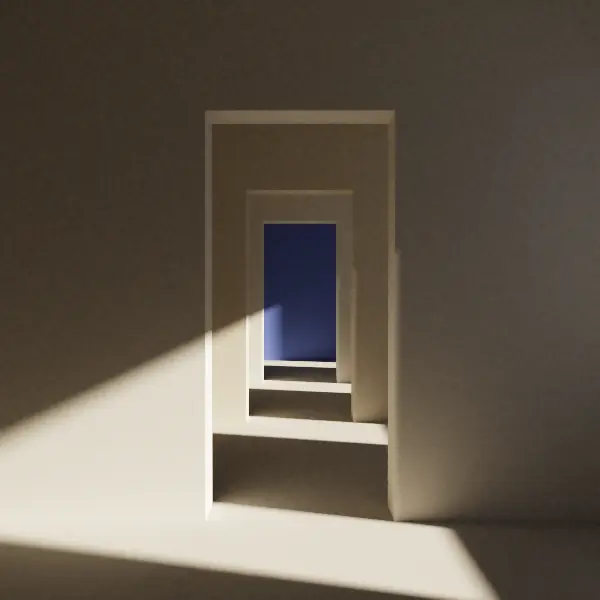
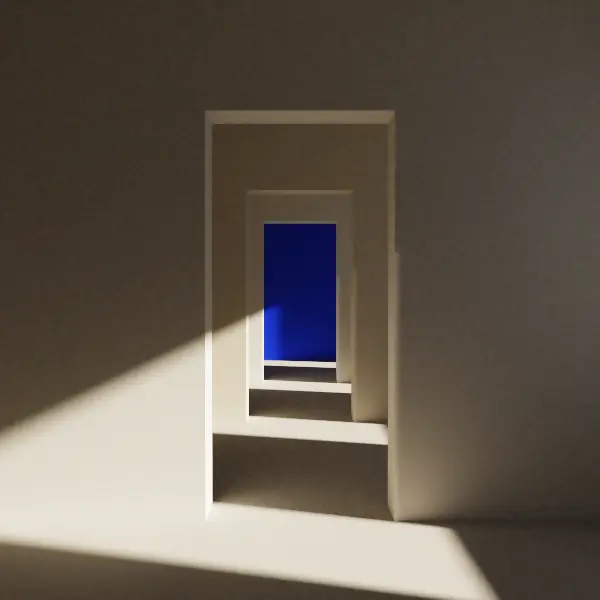
Sticky stacked sections, reference colour palette, square hero images

Changed region(s): [[0.42, 0.45, 0.57, 0.6]]

diff --git a/public/assets/styles.css b/public/assets/styles.css
@@ -6,20 +6,23 @@
 @font-face { font-family: "IBM Plex Sans Thai"; font-style: normal; font-weight: 500; font-display: swap; src: url(../fonts/plex-thai-500-thai.woff2) format("woff2"); unicode-range: U+02D7, U+0303, U+0331, U+0E01-0E5B, U+200C-200D, U+25CC; }
 @font-face { font-family: "IBM Plex Sans Thai"; font-style: normal; font-weight: 500; font-display: swap; src: url(../fonts/plex-thai-500-latin.woff2) format("woff2"); unicode-range: U+0000-00FF, U+0131, U+0152-0153, U+02BB-02BC, U+02C6, U+02DA, U+02DC, U+0304, U+0308, U+0329, U+2000-206F, U+20AC, U+2122, U+2191, U+2193, U+2212, U+2215, U+FEFF, U+FFFD; }
 
-/* Mood: editorial colour blocks (near-black, cream, green, blue), pill controls.
+/* Mood: editorial colour blocks in the reference palette (near-black, cream, deep green-black, electric blue, coral), pill controls.
    Type follows the reference: two weights only (400 body, 500 everything else), large display set tight,
    a medium sub-heading tier, small tracked numerals. Thai keeps gentler tracking and taller line height
    than Latin so stacked vowels and tone marks never touch. */
 :root {
-  --black: #0B0D0C;
-  --black-2: #161917;
+  /* Palette taken from the reference site */
+  --black: #0A0A0A;
+  --black-2: #161616;
+  --deep: #162321;
   --cream: #F2F0EB;
   --paper: #FBFAF7;
   --sand: #E2DDD0;
-  --accent: #0E5A49;
-  --accent-deep: #0A4436;
-  --blue: #1A35C4;
-  --mint: #5FD3A9;
+  --blue: #1432FF;
+  --blue-deep: #0E24C2;
+  --coral: #F94E2A;
+  --accent: var(--blue);
+  --accent-deep: var(--blue-deep);
 
   --ink: #151515;
   --ink-2: #45433F;
@@ -49,10 +52,12 @@
 }
 
 /* Each colour block sets its own text, muted, rule and icon colours */
-.theme-dark   { background: var(--black);  color: var(--cream); --muted: #B3B0A8; --faint: #8F8C84; --rule: rgba(242,240,235,.18); --icon: var(--mint); --focus: var(--cream); }
-.theme-cream  { background: var(--cream);  color: var(--ink);   --muted: var(--ink-2); --faint: var(--ink-3); --rule: #CFCBC1; --icon: var(--accent); --focus: var(--accent); }
-.theme-accent { background: var(--accent); color: var(--cream); --muted: #C6D4CD; --faint: #C6D4CD; --rule: rgba(242,240,235,.28); --icon: var(--cream); --focus: var(--cream); }
-.theme-blue   { background: var(--blue);   color: var(--cream); --muted: #C9CFEE; --faint: #C9CFEE; --rule: rgba(242,240,235,.3); --icon: var(--cream); --focus: var(--cream); }
+.theme-dark   { background: var(--black);   color: var(--cream); --muted: #B1AFA9; --faint: #8F8D87; --rule: rgba(242,240,235,.16); --icon: var(--coral); --focus: var(--cream); }
+.theme-card   { background: var(--black-2); color: var(--cream); --muted: #B1AFA9; --faint: #918F89; --rule: rgba(242,240,235,.16); --icon: var(--coral); --focus: var(--cream); }
+.theme-deep   { background: var(--deep);    color: var(--cream); --muted: #ACB4B1; --faint: #96A09C; --rule: rgba(242,240,235,.18); --icon: var(--coral); --focus: var(--cream); }
+.theme-cream  { background: var(--cream);   color: var(--ink);   --muted: var(--ink-2); --faint: var(--ink-3); --rule: #CFCBC1; --icon: var(--blue); --focus: var(--blue); }
+.theme-coral  { background: var(--coral);   color: var(--ink);   --muted: #2A1712; --faint: #2A1712; --rule: rgba(21,21,21,.24); --icon: var(--ink); --focus: var(--ink); }
+.theme-blue   { background: var(--blue);    color: #FFFFFF;      --muted: #D9DEFF; --faint: #D9DEFF; --rule: rgba(255,255,255,.3); --icon: #FFFFFF; --focus: #FFFFFF; }
 
 *, *::before, *::after { box-sizing: border-box; }
 html { -webkit-text-size-adjust: 100%; scroll-behavior: smooth; }
@@ -113,11 +118,11 @@ button, input, select { font: inherit; color: inherit; }
 .btn-light .btn-arrow { background: var(--black); color: var(--cream); }
 
 .btn-dark { background: var(--black); color: var(--cream); }
-.btn-dark:hover { background: #26302C; }
+.btn-dark:hover { background: #2A2A2A; }
 .btn-dark .btn-arrow { background: var(--cream); color: var(--ink); }
 .btn-dark[disabled] { opacity: .6; cursor: progress; }
 
-.btn-accent { background: var(--accent); color: var(--cream); }
+.btn-accent { background: var(--accent); color: #FFFFFF; }
 .btn-accent:hover { background: var(--accent-deep); }
 .btn-accent .btn-arrow { background: var(--cream); color: var(--accent); }
 
@@ -184,8 +189,8 @@ button, input, select { font: inherit; color: inherit; }
 .hero-pinned .hero { height: 220vh; }
 .hero-pinned .hero-stage { position: sticky; top: 0; height: 100vh; min-height: 0; padding: 110px 0 130px; }
 .hero-center { position: relative; z-index: 2; display: flex; flex-direction: column; align-items: center; text-align: center; }
-.badge { display: inline-flex; align-items: center; gap: 10px; padding: 8px 16px; border: 1px solid var(--rule); border-radius: 999px; font-size: .9rem; color: var(--muted); background: rgba(11,13,12,.6); text-align: left; }
-.badge-dot { width: 8px; height: 8px; flex: none; border-radius: 50%; background: var(--mint); box-shadow: 0 0 0 4px rgba(95, 211, 169, .18); }
+.badge { display: inline-flex; align-items: center; gap: 10px; padding: 8px 16px; border: 1px solid var(--rule); border-radius: 999px; font-size: .9rem; color: var(--muted); background: rgba(10,10,10,.6); text-align: left; }
+.badge-dot { width: 8px; height: 8px; flex: none; border-radius: 50%; background: var(--coral); box-shadow: 0 0 0 4px rgba(249, 78, 42, .2); }
 .hero h1 { margin-top: 28px; font-size: var(--t-display); font-weight: 500; letter-spacing: var(--track-display); line-height: 1.14; max-width: 11.5em; text-wrap: balance; }
 .hero h1 .dim { color: var(--faint); }
 .cta-row { display: flex; flex-wrap: wrap; justify-content: center; gap: 12px; margin-top: 40px; width: 100%; }
@@ -197,7 +202,7 @@ button, input, select { font: inherit; color: inherit; }
 .hero-frames { position: absolute; inset: 0; z-index: 1; pointer-events: none; }
 .frame { position: absolute; will-change: transform; }
 .frame-in {
-  width: 100%; height: 100%; border-radius: 12px;
+  width: 100%; height: 100%; border-radius: 0;
   overflow: hidden; background: var(--black-2);
   box-shadow: 0 24px 60px rgba(0, 0, 0, .45);
   animation: drift 8s ease-in-out infinite alternate;
@@ -230,6 +235,9 @@ button, input, select { font: inherit; color: inherit; }
 .w { display: inline; }
 /* Motion: sections clip content that lags behind as the next block covers it */
 .motion main > .section { overflow: clip; }
+/* Stacked sections: each block sticks and the next one slides over it (see motion.js) */
+.stack main > .hero, .stack main > .section { position: sticky; top: var(--stick, 0px); }
+.stack-measure main > .hero, .stack-measure main > .section { position: relative; top: 0; }
 /* Lenis smooth scroll */
 html.lenis, html.lenis body { height: auto; }
 .lenis.lenis-smooth { scroll-behavior: auto !important; }
@@ -267,12 +275,12 @@ html.lenis, html.lenis body { height: auto; }
   border-radius: var(--r-card); background: var(--paper); color: var(--ink);
   border: 1px solid var(--rule);
 }
-.package-featured { box-shadow: 0 0 0 2px var(--accent), 0 24px 48px -24px rgba(14, 90, 73, .55); border-color: transparent; }
+.package-featured { box-shadow: 0 0 0 2px var(--blue), 0 24px 48px -24px rgba(20, 50, 255, .45); border-color: transparent; }
 @media (min-width: 900px) { .package-featured { position: relative; top: -12px; } }
 .pkg-band { position: relative; padding: 28px 24px 26px; }
-.band-sand .pkg-band { background: var(--sand); color: var(--ink); --sub: var(--ink-2); }
-.band-green .pkg-band { background: var(--accent); color: var(--cream); --sub: #C6D4CD; }
-.band-blue .pkg-band { background: var(--blue); color: var(--cream); --sub: #C9CFEE; }
+.band-deep .pkg-band { background: var(--deep); color: var(--cream); --sub: #ACB4B1; }
+.band-blue .pkg-band { background: var(--blue); color: #FFFFFF; --sub: #D9DEFF; }
+.band-coral .pkg-band { background: var(--coral); color: var(--ink); --sub: #2A1712; }
 .pkg-flag { display: inline-block; margin-bottom: 14px; padding: 4px 12px; border-radius: 999px; background: var(--cream); color: var(--accent); font-size: var(--t-label); font-weight: 500; font-family: var(--font-head); }
 .pkg-label { font-family: var(--font-head); font-size: var(--t-small); font-weight: 500; color: var(--sub); margin-bottom: 4px; }
 .pkg-name { font-size: clamp(1.75rem, 2.4vw, 2.1rem); font-weight: 500; letter-spacing: var(--track-title); line-height: 1.2; }
@@ -311,18 +319,18 @@ html.lenis, html.lenis body { height: auto; }
 .feature-list h3 { font-size: var(--t-card); letter-spacing: -.012em; }
 .feature-list p { color: var(--muted); margin-top: 4px; }
 
-.chat { margin: 0; max-width: 420px; width: 100%; justify-self: center; }
+.chat { margin: 0; max-width: 420px; width: 100%; justify-self: center; background: var(--black-2); color: var(--cream); border-radius: 24px; }
 @media (min-width: 960px) { .chat { position: sticky; top: 40px; } }
-.chat-head, .chat-body { background: var(--accent-deep); }
+.chat-head, .chat-body { background: var(--black-2); }
 .chat-head { display: flex; align-items: center; gap: 12px; padding: 16px 18px; border-radius: 24px 24px 0 0; border-bottom: 1px solid rgba(242,240,235,.14); line-height: 1.35; }
 .chat-head strong { display: block; font-family: var(--font-head); font-weight: 500; }
-.chat-sub { display: block; font-size: .85rem; color: #C6D4CD; }
-.chat-avatar { display: grid; place-items: center; width: 40px; height: 40px; border-radius: 50%; background: var(--cream); color: var(--accent); flex: none; }
-.chat-tag { margin-left: auto; padding: 3px 10px; border: 1px solid rgba(242,240,235,.4); border-radius: 999px; font-size: .78rem; color: #C6D4CD; }
+.chat-sub { display: block; font-size: .85rem; color: #B1AFA9; }
+.chat-avatar { display: grid; place-items: center; width: 40px; height: 40px; border-radius: 50%; background: var(--coral); color: var(--ink); flex: none; }
+.chat-tag { margin-left: auto; padding: 3px 10px; border: 1px solid rgba(242,240,235,.4); border-radius: 999px; font-size: .78rem; color: #B1AFA9; }
 .chat-body { display: flex; flex-direction: column; gap: 10px; padding: 20px 16px 24px; border-radius: 0 0 24px 24px; }
 .msg { max-width: 86%; padding: 12px 15px; border-radius: 18px; font-size: .95rem; line-height: 1.55; }
 .msg.bot { align-self: flex-start; background: var(--cream); color: var(--ink); border-bottom-left-radius: 6px; }
-.msg.me { align-self: flex-end; background: var(--mint); color: var(--ink); border-bottom-right-radius: 6px; }
+.msg.me { align-self: flex-end; background: var(--blue); color: #FFFFFF; border-bottom-right-radius: 6px; }
 .chat-list { margin-top: 6px; }
 .chat-list li { position: relative; padding-left: 24px; }
 .chat-list li::before { content: ""; position: absolute; left: 3px; top: .55em; width: 11px; height: 11px; border: 1.5px solid var(--ink-3); border-radius: 3px; }
@@ -388,7 +396,7 @@ input:focus, select:focus { border-color: var(--accent); }
 .choices { display: grid; gap: 8px; }
 @media (min-width: 640px) { .choices-inline { grid-template-columns: repeat(3, 1fr); } .choices-2 { grid-template-columns: 1fr 1fr; } }
 .choice { display: flex; align-items: center; gap: 12px; min-height: 56px; padding: 10px 16px; border: 1px solid var(--field); border-radius: var(--r-field); background: var(--paper); cursor: pointer; line-height: 1.4; }
-.choice:has(input:checked) { border-color: var(--accent); box-shadow: 0 0 0 1px var(--accent); background: #E6EFEB; }
+.choice:has(input:checked) { border-color: var(--accent); box-shadow: 0 0 0 1px var(--accent); background: #E6E9FF; }
 .choice input, .consent input { width: 20px; height: 20px; margin: 0; flex: none; accent-color: var(--accent); }
 .consent { display: flex; gap: 12px; align-items: flex-start; cursor: pointer; font-size: .95rem; color: var(--ink-2); line-height: 1.6; }
 .consent input { margin-top: 3px; }
@@ -398,7 +406,7 @@ input:focus, select:focus { border-color: var(--accent); }
 .form-status { margin-bottom: 16px; padding: 12px 16px; border-radius: var(--r-field); background: #FBE9E8; color: var(--error); font-weight: 500; }
 .form-success { padding: 48px 24px; text-align: center; background: var(--paper); border: 1px solid var(--rule); border-radius: var(--r-card); }
 .form-success:focus { outline: none; }
-.success-icon { display: inline-grid; place-items: center; width: 64px; height: 64px; border-radius: 50%; background: var(--accent); color: var(--cream); margin-bottom: 16px; }
+.success-icon { display: inline-grid; place-items: center; width: 64px; height: 64px; border-radius: 50%; background: var(--accent); color: #FFFFFF; margin-bottom: 16px; }
 .form-success h3 { font-size: 2rem; letter-spacing: var(--track-title); }
 .form-success p { color: var(--ink-2); margin-top: 6px; }
 

diff --git a/public/index.html b/public/index.html
@@ -6,7 +6,7 @@
 <title>Virtual Office จด VAT ได้ กรุงเทพ | [ชื่อแบรนด์]</title>
 <meta name="description" content="ที่อยู่บริษัทใน [ย่าน] กรุงเทพ จด VAT ได้จริง บล็อกพื้นที่มีสัญญาเช่าและป้ายชื่อ พร้อมผู้ช่วย AI Agent บน Slack, Discord และ Basecamp เตือนยื่นแบบ ลงชื่อฟรีและนัดชมสถานที่ก่อนตัดสินใจ">
 <link rel="canonical" href="https://www.example.com/">
-<meta name="theme-color" content="#0B0D0C">
+<meta name="theme-color" content="#0A0A0A">
 <link rel="icon" href="favicon.svg" type="image/svg+xml">
 
 <meta property="og:type" content="website">
@@ -133,7 +133,7 @@
 <header class="site-header">
   <div class="nav-pill">
     <a class="logo" href="./" aria-label="[ชื่อแบรนด์] หน้าแรก">
-      <svg class="logo-mark" viewBox="0 0 32 32" aria-hidden="true"><rect width="32" height="32" rx="16" fill="#0E5A49"/><rect x="9" y="9" width="6" height="6" rx="1.2" fill="#F2F0EB"/><rect x="17" y="9" width="6" height="6" rx="1.2" fill="#F2F0EB" opacity=".5"/><rect x="9" y="17" width="6" height="6" rx="1.2" fill="#F2F0EB" opacity=".5"/><rect x="17" y="17" width="6" height="6" rx="1.2" fill="#F2F0EB"/></svg>
+      <svg class="logo-mark" viewBox="0 0 32 32" aria-hidden="true"><rect width="32" height="32" rx="16" fill="#1432FF"/><rect x="9" y="9" width="6" height="6" rx="1.2" fill="#F2F0EB"/><rect x="17" y="9" width="6" height="6" rx="1.2" fill="#F2F0EB" opacity=".5"/><rect x="9" y="17" width="6" height="6" rx="1.2" fill="#F2F0EB" opacity=".5"/><rect x="17" y="17" width="6" height="6" rx="1.2" fill="#F2F0EB"/></svg>
       <span>[ชื่อแบรนด์]</span>
     </a>
     <nav id="site-nav" class="site-nav" aria-label="เมนูหลัก">
@@ -233,7 +233,7 @@
       </div>
 
       <div class="package-grid">
-        <article class="package band-sand" aria-labelledby="pkg-address">
+        <article class="package band-deep" aria-labelledby="pkg-address">
           <div class="pkg-band">
             <p class="pkg-label">Address</p>
             <h3 id="pkg-address" class="pkg-name">ที่อยู่จดบริษัท</h3>
@@ -251,7 +251,7 @@
           </div>
         </article>
 
-        <article class="package band-green package-featured" aria-labelledby="pkg-vat">
+        <article class="package band-blue package-featured" aria-labelledby="pkg-vat">
           <div class="pkg-band">
             <p class="pkg-flag">แนะนำสำหรับบริษัทใหม่</p>
             <p class="pkg-label">VAT-ready</p>
@@ -270,7 +270,7 @@
           </div>
         </article>
 
-        <article class="package band-blue" aria-labelledby="pkg-ai">
+        <article class="package band-coral" aria-labelledby="pkg-ai">
           <div class="pkg-band">
             <p class="pkg-label">VAT-ready + AI</p>
             <h3 id="pkg-ai" class="pkg-name">พื้นที่ + ผู้ช่วย AI ธุรการ</h3>
@@ -297,7 +297,7 @@
   </section>
 
   <!-- 02 Add-ons (dark) -->
-  <section id="addons" class="section theme-dark" aria-labelledby="addons-title">
+  <section id="addons" class="section theme-deep" aria-labelledby="addons-title">
     <div class="container">
       <div class="split section-head">
         <div>
@@ -350,7 +350,7 @@
   </section>
 
   <!-- 03 AI (green block) -->
-  <section id="ai" class="section theme-accent" aria-labelledby="ai-title">
+  <section id="ai" class="section theme-coral" aria-labelledby="ai-title">
     <div class="container">
       <div class="split section-head">
         <div>
@@ -435,7 +435,7 @@
   </section>
 
   <!-- 05 FAQ (dark) -->
-  <section id="faq" class="section theme-dark" aria-labelledby="faq-title">
+  <section id="faq" class="section theme-card" aria-labelledby="faq-title">
     <div class="container split">
       <div>
         <p class="sec-num">05</p>

diff --git a/public/assets/motion.js b/public/assets/motion.js
@@ -30,7 +30,10 @@
     var target = id.length > 1 && document.querySelector(id);
     if (!target) return;
     e.preventDefault();
-    lenis.scrollTo(target, {
+    var sec = target.closest('main > .hero, main > .section');
+    var dest = target;
+    if (sec && naturalTop.has(sec)) dest = naturalTop.get(sec) + (target.getBoundingClientRect().top - sec.getBoundingClientRect().top);
+    lenis.scrollTo(dest, {
       duration: 1.6,
       onComplete: function () {
         if (!target.hasAttribute('tabindex')) target.setAttribute('tabindex', '-1');
@@ -141,17 +144,23 @@
     });
   });
 
-  /* ---------- Section lag: each block's content eases down as the next block covers it ---------- */
-  var blocks = gsap.utils.toArray('main > .section');
-  blocks.forEach(function (sec, i) {
-    var next = blocks[i + 1];
-    var inner = sec.querySelector(':scope > .container');
-    if (!next || !inner) return;
-    gsap.fromTo(inner, { yPercent: 0 }, {
-      yPercent: 12, ease: 'none',
-      scrollTrigger: { trigger: next, start: 'top bottom', end: 'top top', scrub: true }
+  /* ---------- Stacked sections, like the reference ----------
+     Each block is position: sticky. A block taller than the screen sticks once its bottom reaches the
+     bottom of the screen (negative top), so it is read in full before the next block slides over it. */
+  var stack = gsap.utils.toArray('main > .hero, main > .section');
+  var naturalTop = new Map();
+  var measureStack = function () {
+    var vh = window.innerHeight;
+    stack.forEach(function (sec) {
+      sec.style.setProperty('--stick', Math.min(0, vh - sec.offsetHeight) + 'px');
+      naturalTop.set(sec, sec.getBoundingClientRect().top + window.scrollY);
     });
-  });
+  };
+  root.classList.add('stack');
+  // ScrollTrigger measures the plain, un-stuck layout; sticky comes back once it is done.
+  ST.addEventListener('refreshInit', function () { root.classList.add('stack-measure'); measureStack(); });
+  ST.addEventListener('refresh', function () { root.classList.remove('stack-measure'); });
+  root.classList.add('stack-measure'); measureStack(); root.classList.remove('stack-measure');
 
   /* ---------- Footer slides up into view ---------- */
   var footer = document.querySelector('.site-footer > .container');

diff --git a/public/privacy.html b/public/privacy.html
@@ -6,7 +6,7 @@
 <title>นโยบายความเป็นส่วนตัว | [ชื่อแบรนด์]</title>
 <meta name="description" content="นโยบายความเป็นส่วนตัวและการใช้คุกกี้ของ [ชื่อแบรนด์] อธิบายข้อมูลที่เราเก็บจากฟอร์มลงชื่อ วัตถุประสงค์ ระยะเวลาเก็บ และสิทธิของคุณตาม PDPA">
 <link rel="canonical" href="https://www.example.com/privacy">
-<meta name="theme-color" content="#0B0D0C">
+<meta name="theme-color" content="#0A0A0A">
 <link rel="icon" href="favicon.svg" type="image/svg+xml">
 <link rel="stylesheet" href="assets/styles.css">
 <style>body { padding-bottom: 0; background: #F2F0EB; }</style>
